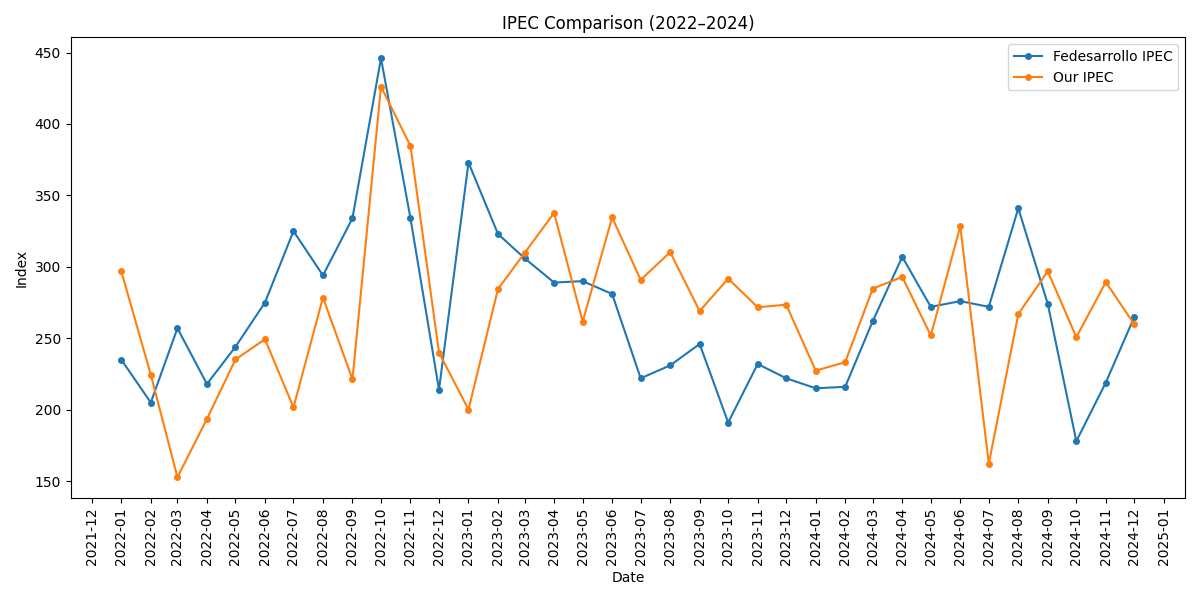
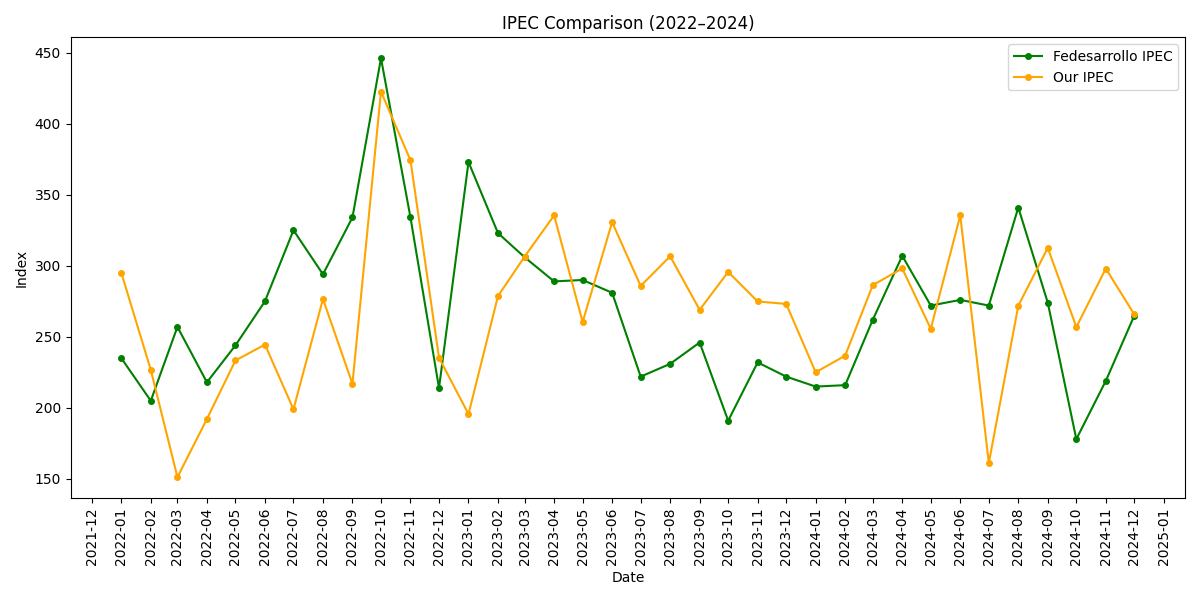
Fixed IPEC and calculated IPEC el_tiempo

diff --git a/scripts/7_visualizations.py b/scripts/7_visualizations.py
@@ -1,0 +1,52 @@
+import pandas as pd
+import matplotlib.pyplot as plt
+import matplotlib.dates as mdates
+
+# Load the files
+fede = pd.read_csv("stores/IPEC_2022_2024_fedesarrollo.csv")
+monthly = pd.read_csv("stores/IPEC_monthly_index.csv")
+el_tiempo = pd.read_csv("stores/IPEC_monthly_index_el_tiempo.csv")
+
+# Convert year_month to datetime
+fede["year_month"] = pd.to_datetime(fede["year_month"])
+monthly["year_month"] = pd.to_datetime(monthly["year_month"])
+el_tiempo["year_month"] = pd.to_datetime(el_tiempo["year_month"])
+
+# Plot 1
+plt.figure(figsize=(12, 6))
+plt.plot(fede["year_month"], fede["IPEC"], label="Fedesarrollo IPEC", marker='o', markersize=4, color='green')
+plt.plot(monthly["year_month"], monthly["IPEC"], label="Our IPEC", marker='o', markersize=4, color='orange')
+
+plt.xlabel("Date")
+plt.ylabel("Index")
+plt.title("IPEC Comparison (2022–2024)")
+plt.legend()
+
+# Make every month appear on the x-axis
+ax = plt.gca()
+ax.xaxis.set_major_locator(mdates.MonthLocator())          # tick every month
+ax.xaxis.set_major_formatter(mdates.DateFormatter('%Y-%m'))  # format as YYYY-MM
+
+plt.xticks(rotation=90)
+plt.tight_layout()
+plt.savefig("figures/IPEC_comparison_2022_2024.png")
+
+# Plot 2 - El Tiempo IPEC
+plt.clf()
+plt.figure(figsize=(12, 6))
+plt.plot(fede["year_month"], fede["IPEC"], label="Fedesarrollo IPEC", marker='o', markersize=4, color='green')
+plt.plot(el_tiempo["year_month"], el_tiempo["IPEC"], label="El Tiempo IPEC", marker='o', markersize=4, color='blue')
+
+plt.xlabel("Date")
+plt.ylabel("Index")
+plt.title("IPEC Comparison (2022–2024)")
+plt.legend()
+
+# Make every month appear on the x-axis
+ax = plt.gca()
+ax.xaxis.set_major_locator(mdates.MonthLocator())          # tick every month
+ax.xaxis.set_major_formatter(mdates.DateFormatter('%Y-%m'))  # format as YYYY-MM
+
+plt.xticks(rotation=90)
+plt.tight_layout()
+plt.savefig("figures/IPEC_comparison_el_tiempo_2022_2024.png")

diff --git a/scripts/4_El_Tiempo_IPEC.py b/scripts/4_El_Tiempo_IPEC.py
@@ -42,6 +42,10 @@ def clean_text(text):
 df["clean"] = df["titulo"].fillna("") + " " + df["texto"].fillna("") # Combine title and text
 df["clean"] = df["clean"].apply(clean_text)
 
+print(f"Total articles before filtering: {len(df)}")
+df = df[df["url"].str.contains("eltiempo", na=False)]
+print(f"Total articles after filtering to El Tiempo: {len(df)}")
+
 def contains_any(text, keywords):
     return any(kw in text for kw in keywords)
 
@@ -79,4 +83,4 @@ monthly_counts["IPEC"] = monthly_counts["ipec_std"] * fede_std + fede_mean
 
 # Final index
 ipec = monthly_counts["IPEC"].to_frame()
-ipec.reset_index().to_csv("stores/IPEC_monthly_index.csv", index=False)
+ipec.reset_index().to_csv("stores/IPEC_monthly_index_el_tiempo.csv", index=False)
